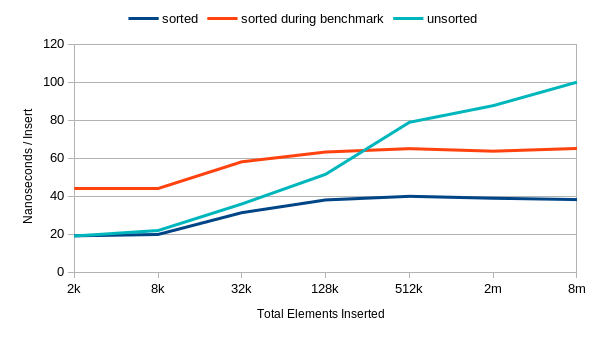
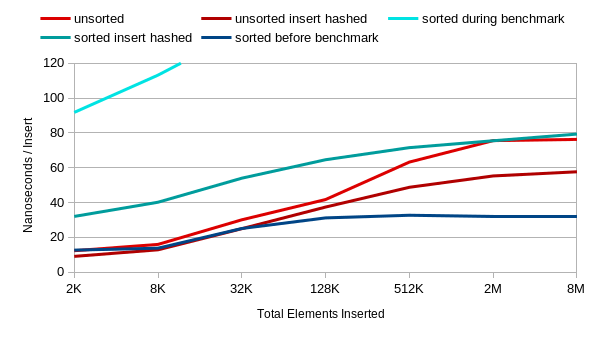
Improve and re-run benchmarks

diff --git a/src/main.rs b/src/main.rs
@@ -1,9 +1,10 @@
 #![feature(test)]
 #![allow(non_snake_case)]
 
-extern crate test;
+extern crate fnv;
+extern crate rahashmap;
 extern crate rand;
-
+extern crate test;
 
 #[cfg(test)]
 mod tests {
@@ -12,44 +13,75 @@ mod tests {
         Unsorted,
         Sorted,
         SortDuringBench,
+        SortInsertHashed,
+        UnsortedInsertHashed,
     }
-
 
     use super::*;
+    use fnv::FnvBuildHasher;
     use test::Bencher;
+    use rahashmap::HashMap;
     use rand::Rng;
     use std::hash::Hasher;
-    use std::collections::HashMap;
-    use std::collections::hash_map::RandomState;
-    use std::hash::{Hash, BuildHasher};
-
-    fn sort_values<K: Hash, V, S: BuildHasher>(values: &mut Vec<(K, V)>, s: &S, mask: u64) {
-        values.sort_by_key(|&(ref k, _)| {
-            let mut state = s.build_hasher();
-            k.hash(&mut state);
-            state.finish() & mask
-        });
-    }
+    use std::hash::{BuildHasher, Hash};
 
     fn bench(b: &mut Bencher, size: usize, mode: Mode) {
-        let s = RandomState::new();
-        let mut rng = rand::thread_rng();
-        let mut values: Vec<(i64, _)> = (0..(size as i64)).map(|i| (rng.gen(), i)).collect();
-        let mask = (size as u64).next_power_of_two() - 1;
-
-        if mode == Mode::Sorted {
-            sort_values(&mut values, &s, mask);
+        fn sort_values<K: Hash, V, S: BuildHasher>(values: &mut Vec<(K, V)>, s: &S, mask: u64) {
+            values.sort_unstable_by_key(|&(ref k, _)| {
+                let mut state = s.build_hasher();
+                k.hash(&mut state);
+                state.finish() & mask
+            });
         }
 
-        b.iter(|| {
-            if mode == Mode::SortDuringBench {
-                sort_values(&mut values, &s, mask);
+        let s = FnvBuildHasher::default();
+        let mask = size.next_power_of_two() - 1;
+        let values: Vec<(i64, _)> = {
+            let mut rng = rand::thread_rng();
+            let mut v = (0..(size as i64)).map(|i| (rng.gen(), i)).collect();
+            if mode == Mode::Sorted {
+                sort_values(&mut v, &s, mask as u64);
             }
+            v
+        };
 
-            let mut hm = HashMap::with_hasher(s.clone());
-            hm.extend(values.clone());
-            test::black_box(hm)
-        });
+        match mode {
+            Mode::Unsorted | Mode::Sorted => b.iter(|| {
+                let mut hm = HashMap::with_hasher(s.clone());
+                hm.extend(values.clone());
+                test::black_box(hm)
+            }),
+            Mode::SortDuringBench => b.iter(|| {
+                let mut values = values.clone();
+                sort_values(&mut values, &s, mask as u64);
+                let mut hm = HashMap::with_hasher(s.clone());
+                hm.extend(values);
+                test::black_box(hm)
+            }),
+            Mode::SortInsertHashed => b.iter(|| {
+                let mut values: Vec<_> = values
+                    .iter()
+                    .map(|&(k, v)| (rahashmap::make_hash(&s, &k), (k, v)))
+                    .collect();
+                values.sort_unstable_by_key(|&(h, _)| h.inspect() & mask);
+                let mut hm = HashMap::with_capacity_and_hasher(size, s.clone());
+                for &(h, (k, v)) in values.iter() {
+                    hm.insert_hashed_nocheck(h, k, v);
+                }
+                test::black_box(hm)
+            }),
+            Mode::UnsortedInsertHashed => b.iter(|| {
+                let values: Vec<_> = values
+                    .iter()
+                    .map(|&(k, v)| (rahashmap::make_hash(&s, &k), (k, v)))
+                    .collect();
+                let mut hm = HashMap::with_capacity_and_hasher(size, s.clone());
+                for &(h, (k, v)) in values.iter() {
+                    hm.insert_hashed_nocheck(h, k, v);
+                }
+                test::black_box(hm)
+            }),
+        }
     }
 
     #[bench]
@@ -64,6 +96,14 @@ mod tests {
     fn bench_002K_sorted_during_bench(b: &mut Bencher) {
         bench(b, 2 * 1024 + 1, Mode::SortDuringBench)
     }
+    #[bench]
+    fn bench_002K_sorted_insert_hashed(b: &mut Bencher) {
+        bench(b, 2 * 1024 + 1, Mode::SortInsertHashed)
+    }
+    #[bench]
+    fn bench_002K_unsorted_insert_hashed(b: &mut Bencher) {
+        bench(b, 2 * 1024 + 1, Mode::UnsortedInsertHashed)
+    }
 
     #[bench]
     fn bench_008K_sorted(b: &mut Bencher) {
@@ -76,6 +116,14 @@ mod tests {
     #[bench]
     fn bench_008K_sorted_during_bench(b: &mut Bencher) {
         bench(b, 8 * 1024 + 1, Mode::SortDuringBench)
+    }
+    #[bench]
+    fn bench_008K_sorted_insert_hashed(b: &mut Bencher) {
+        bench(b, 8 * 1024 + 1, Mode::SortInsertHashed)
+    }
+    #[bench]
+    fn bench_008K_unsorted_insert_hashed(b: &mut Bencher) {
+        bench(b, 8 * 1024 + 1, Mode::UnsortedInsertHashed)
     }
 
     #[bench]
@@ -90,6 +138,14 @@ mod tests {
     fn bench_032K_sorted_during_bench(b: &mut Bencher) {
         bench(b, 32 * 1024 + 1, Mode::SortDuringBench)
     }
+    #[bench]
+    fn bench_032K_sorted_insert_hashed(b: &mut Bencher) {
+        bench(b, 32 * 1024 + 1, Mode::SortInsertHashed)
+    }
+    #[bench]
+    fn bench_032K_unsorted_insert_hashed(b: &mut Bencher) {
+        bench(b, 32 * 1024 + 1, Mode::UnsortedInsertHashed)
+    }
 
     #[bench]
     fn bench_128K_sorted(b: &mut Bencher) {
@@ -100,8 +156,17 @@ mod tests {
         bench(b, 128 * 1024 + 1, Mode::Unsorted)
     }
     #[bench]
+    #[ignore]
     fn bench_128K_sorted_during_bench(b: &mut Bencher) {
         bench(b, 128 * 1024 + 1, Mode::SortDuringBench)
+    }
+    #[bench]
+    fn bench_128K_sorted_insert_hashed(b: &mut Bencher) {
+        bench(b, 128 * 1024 + 1, Mode::SortInsertHashed)
+    }
+    #[bench]
+    fn bench_128K_unsorted_insert_hashed(b: &mut Bencher) {
+        bench(b, 128 * 1024 + 1, Mode::UnsortedInsertHashed)
     }
 
     #[bench]
@@ -113,8 +178,17 @@ mod tests {
         bench(b, 512 * 1024 + 1, Mode::Unsorted)
     }
     #[bench]
+    #[ignore]
     fn bench_512K_sorted_during_bench(b: &mut Bencher) {
         bench(b, 512 * 1024 + 1, Mode::SortDuringBench)
+    }
+    #[bench]
+    fn bench_512K_sorted_insert_hashed(b: &mut Bencher) {
+        bench(b, 512 * 1024 + 1, Mode::SortInsertHashed)
+    }
+    #[bench]
+    fn bench_512K_unsorted_insert_hashed(b: &mut Bencher) {
+        bench(b, 512 * 1024 + 1, Mode::UnsortedInsertHashed)
     }
 
     #[bench]
@@ -126,8 +200,17 @@ mod tests {
         bench(b, 2 * 1024 * 1024 + 1, Mode::Unsorted)
     }
     #[bench]
+    #[ignore]
     fn bench__2M_sorted_during_bench(b: &mut Bencher) {
         bench(b, 2 * 1024 * 1024 + 1, Mode::SortDuringBench)
+    }
+    #[bench]
+    fn bench__2M_sorted_insert_hashed(b: &mut Bencher) {
+        bench(b, 2 * 1024 * 1024 + 1, Mode::SortInsertHashed)
+    }
+    #[bench]
+    fn bench__2M_unsorted_insert_hashed(b: &mut Bencher) {
+        bench(b, 2 * 1024 * 1024 + 1, Mode::UnsortedInsertHashed)
     }
 
     #[bench]
@@ -139,7 +222,16 @@ mod tests {
         bench(b, 8 * 1024 * 1024 + 1, Mode::Unsorted)
     }
     #[bench]
+    #[ignore]
     fn bench__8M_sorted_during_bench(b: &mut Bencher) {
         bench(b, 8 * 1024 * 1024 + 1, Mode::SortDuringBench)
+    }
+    #[bench]
+    fn bench__8M_sorted_insert_hashed(b: &mut Bencher) {
+        bench(b, 8 * 1024 * 1024 + 1, Mode::SortInsertHashed)
+    }
+    #[bench]
+    fn bench__8M_unsorted_insert_hashed(b: &mut Bencher) {
+        bench(b, 8 * 1024 * 1024 + 1, Mode::UnsortedInsertHashed)
     }
 }

diff --git a/README.md b/README.md
@@ -8,27 +8,40 @@ Running on an Intel Core i5-6600K with 16GB of DDR4 RAM.
 ![Graph](/graph.png?raw=true)
 
 ```
-running 21 tests
-test tests::bench_002K_sorted              ... bench:      39,292 ns/iter (+/- 2,622)
-test tests::bench_002K_sorted_during_bench ... bench:      90,059 ns/iter (+/- 3,601)
-test tests::bench_002K_unsorted            ... bench:      39,072 ns/iter (+/- 2,469)
-test tests::bench_008K_sorted              ... bench:     163,039 ns/iter (+/- 8,752)
-test tests::bench_008K_sorted_during_bench ... bench:     363,348 ns/iter (+/- 19,119)
-test tests::bench_008K_unsorted            ... bench:     179,937 ns/iter (+/- 14,025)
-test tests::bench_032K_sorted              ... bench:   1,028,009 ns/iter (+/- 193,024)
-test tests::bench_032K_sorted_during_bench ... bench:   1,906,691 ns/iter (+/- 57,309)
-test tests::bench_032K_unsorted            ... bench:   1,178,134 ns/iter (+/- 36,470)
-test tests::bench_128K_sorted              ... bench:   4,989,248 ns/iter (+/- 183,860)
-test tests::bench_128K_sorted_during_bench ... bench:   8,298,834 ns/iter (+/- 194,107)
-test tests::bench_128K_unsorted            ... bench:   6,760,891 ns/iter (+/- 246,155)
-test tests::bench_512K_sorted              ... bench:  20,952,505 ns/iter (+/- 468,346)
-test tests::bench_512K_sorted_during_bench ... bench:  34,121,880 ns/iter (+/- 656,749)
-test tests::bench_512K_unsorted            ... bench:  41,404,297 ns/iter (+/- 1,040,711)
-test tests::bench__2M_sorted               ... bench:  81,694,862 ns/iter (+/- 1,347,312)
-test tests::bench__2M_sorted_during_bench  ... bench: 133,698,888 ns/iter (+/- 1,058,672)
-test tests::bench__2M_unsorted             ... bench: 183,997,158 ns/iter (+/- 6,743,977)
-test tests::bench__8M_sorted               ... bench: 320,817,459 ns/iter (+/- 8,146,400)
-test tests::bench__8M_sorted_during_bench  ... bench: 546,873,318 ns/iter (+/- 23,351,825)
-test tests::bench__8M_unsorted             ... bench: 839,765,298 ns/iter (+/- 25,778,730)
-
+running 35 tests
+test tests::bench_002K_sorted                 ... bench:      25,989 ns/iter (+/- 817)
+test tests::bench_002K_sorted_during_bench    ... bench:     188,047 ns/iter (+/- 2,415)
+test tests::bench_002K_sorted_insert_hashed   ... bench:      65,611 ns/iter (+/- 7,480)
+test tests::bench_002K_unsorted               ... bench:      25,291 ns/iter (+/- 1,379)
+test tests::bench_002K_unsorted_insert_hashed ... bench:      18,660 ns/iter (+/- 1,105)
+test tests::bench_008K_sorted                 ... bench:     113,132 ns/iter (+/- 4,981)
+test tests::bench_008K_sorted_during_bench    ... bench:     927,027 ns/iter (+/- 11,969)
+test tests::bench_008K_sorted_insert_hashed   ... bench:     329,144 ns/iter (+/- 10,533)
+test tests::bench_008K_unsorted               ... bench:     130,915 ns/iter (+/- 1,699)
+test tests::bench_008K_unsorted_insert_hashed ... bench:     105,409 ns/iter (+/- 2,952)
+test tests::bench_032K_sorted                 ... bench:     822,597 ns/iter (+/- 15,158)
+test tests::bench_032K_sorted_during_bench    ... bench:   4,531,621 ns/iter (+/- 215,618)
+test tests::bench_032K_sorted_insert_hashed   ... bench:   1,768,648 ns/iter (+/- 16,843)
+test tests::bench_032K_unsorted               ... bench:     986,027 ns/iter (+/- 69,920)
+test tests::bench_032K_unsorted_insert_hashed ... bench:     819,163 ns/iter (+/- 52,504)
+test tests::bench_128K_sorted                 ... bench:   4,086,533 ns/iter (+/- 192,409)
+test tests::bench_128K_sorted_during_bench    ... ignored
+test tests::bench_128K_sorted_insert_hashed   ... bench:   8,466,170 ns/iter (+/- 502,833)
+test tests::bench_128K_unsorted               ... bench:   5,469,179 ns/iter (+/- 380,908)
+test tests::bench_128K_unsorted_insert_hashed ... bench:   4,902,794 ns/iter (+/- 361,578)
+test tests::bench_512K_sorted                 ... bench:  17,147,720 ns/iter (+/- 564,594)
+test tests::bench_512K_sorted_during_bench    ... ignored
+test tests::bench_512K_sorted_insert_hashed   ... bench:  37,497,271 ns/iter (+/- 1,364,904)
+test tests::bench_512K_unsorted               ... bench:  33,158,553 ns/iter (+/- 987,269)
+test tests::bench_512K_unsorted_insert_hashed ... bench:  25,561,521 ns/iter (+/- 868,525)
+test tests::bench__2M_sorted                  ... bench:  66,671,740 ns/iter (+/- 1,306,324)
+test tests::bench__2M_sorted_during_bench     ... ignored
+test tests::bench__2M_sorted_insert_hashed    ... bench: 158,308,434 ns/iter (+/- 5,433,147)
+test tests::bench__2M_unsorted                ... bench: 158,455,060 ns/iter (+/- 5,224,070)
+test tests::bench__2M_unsorted_insert_hashed  ... bench: 115,893,118 ns/iter (+/- 2,103,544)
+test tests::bench__8M_sorted                  ... bench: 266,762,726 ns/iter (+/- 6,250,259)
+test tests::bench__8M_sorted_during_bench     ... ignored
+test tests::bench__8M_sorted_insert_hashed    ... bench: 665,298,541 ns/iter (+/- 9,518,462)
+test tests::bench__8M_unsorted                ... bench: 639,673,469 ns/iter (+/- 2,691,899)
+test tests::bench__8M_unsorted_insert_hashed  ... bench: 483,602,363 ns/iter (+/- 8,671,774)
 ```
